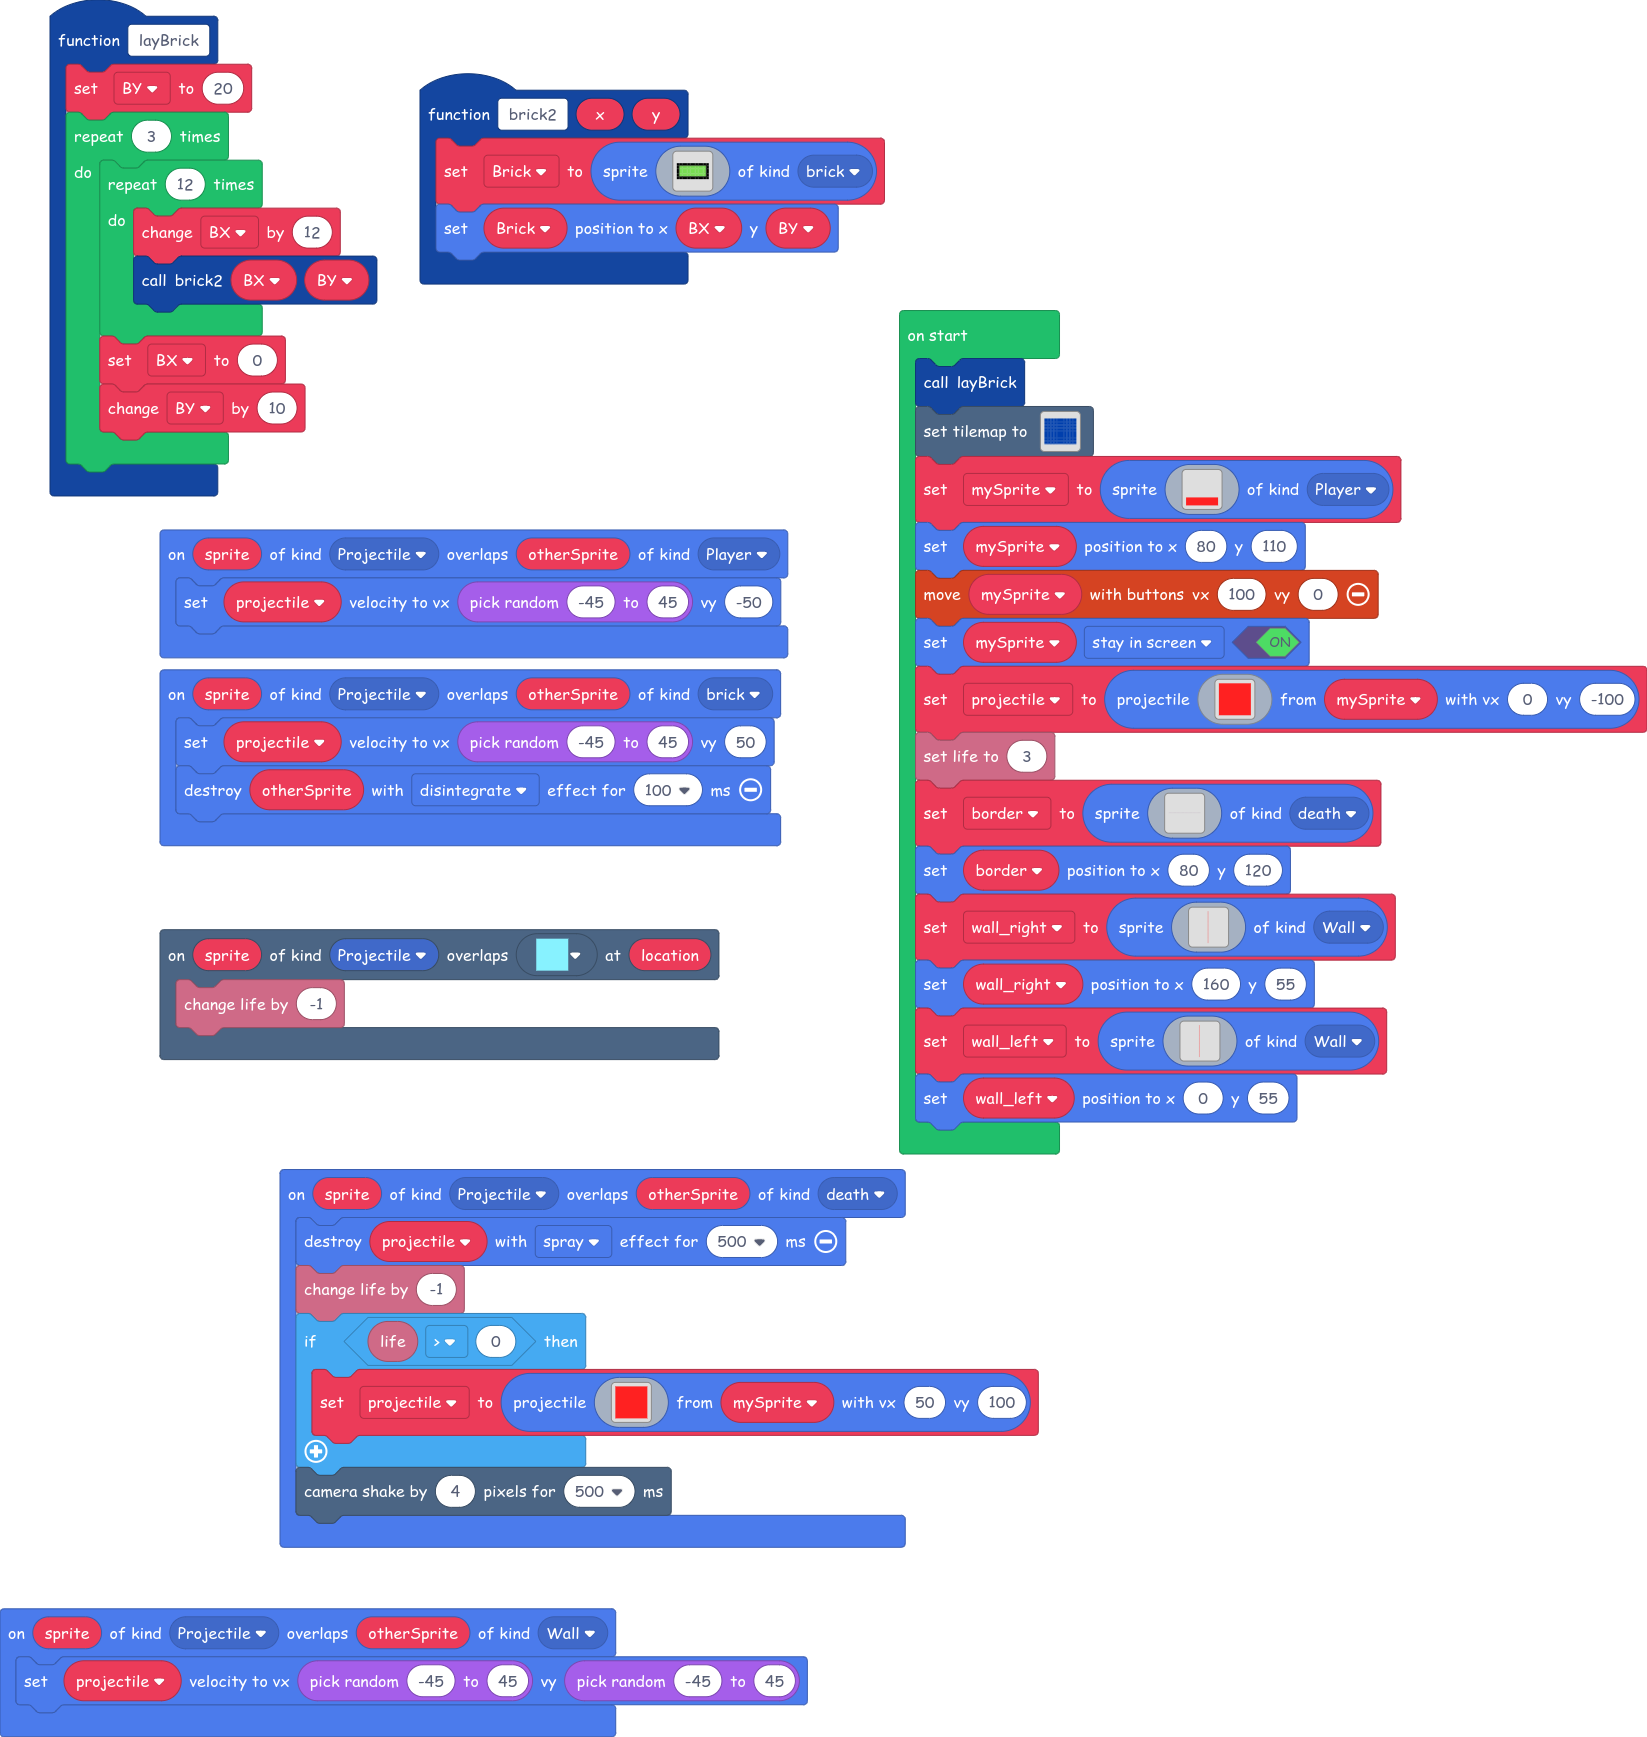
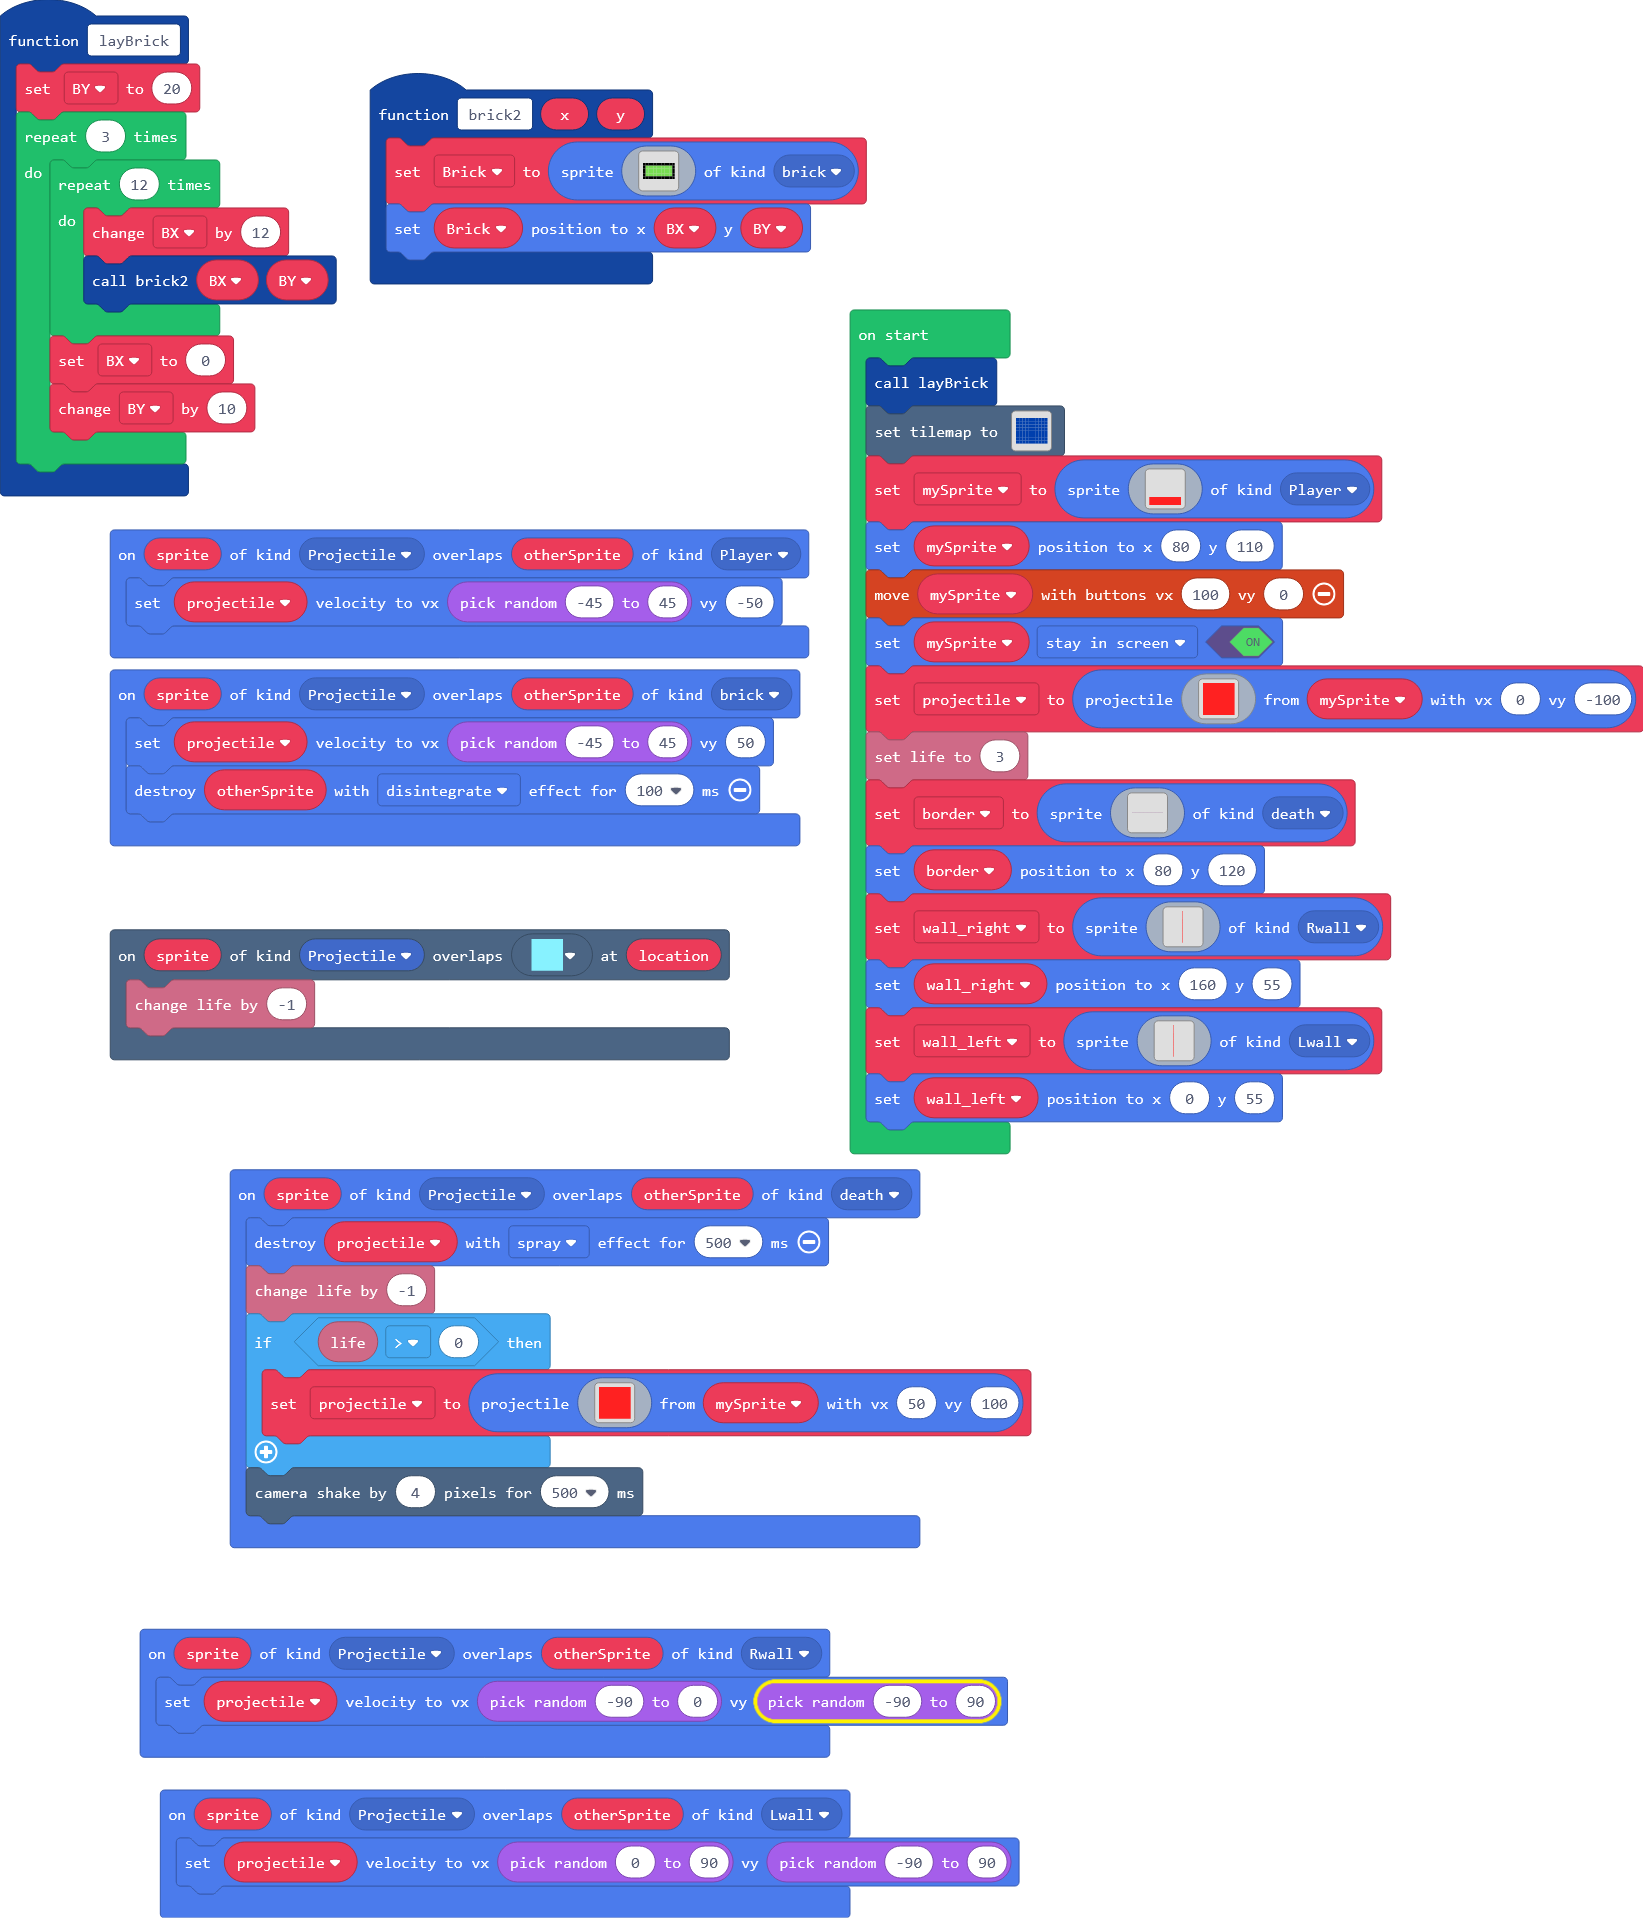
Fixed the walls

diff --git a/main.ts b/main.ts
@@ -2,6 +2,8 @@ namespace SpriteKind {
     export const Wall = SpriteKind.create()
     export const brick = SpriteKind.create()
     export const death = SpriteKind.create()
+    export const Rwall = SpriteKind.create()
+    export const Lwall = SpriteKind.create()
 }
 namespace myTiles {
     //% blockIdentity=images._tile
@@ -81,6 +83,9 @@ f f f f f f f f f f f f f f f f
 9 9 9 9 9 9 9 9 9 9 9 9 9 9 9 9 
 `
 }
+sprites.onOverlap(SpriteKind.Projectile, SpriteKind.Lwall, function (sprite, otherSprite) {
+    projectile.setVelocity(Math.randomRange(0, 90), Math.randomRange(-90, 90))
+})
 function brick2 (x: number, y: number) {
     Brick = sprites.create(img`
 f f f f f f f f f f f f 
@@ -92,6 +97,9 @@ f f f f f f f f f f f f
 `, SpriteKind.brick)
     Brick.setPosition(BX, BY)
 }
+sprites.onOverlap(SpriteKind.Projectile, SpriteKind.Rwall, function (sprite, otherSprite) {
+    projectile.setVelocity(Math.randomRange(-90, 0), Math.randomRange(-90, 90))
+})
 sprites.onOverlap(SpriteKind.Projectile, SpriteKind.brick, function (sprite, otherSprite) {
     projectile.setVelocity(Math.randomRange(-45, 45), 50)
     otherSprite.destroy(effects.disintegrate, 100)
@@ -107,9 +115,6 @@ function layBrick () {
         BY += 10
     }
 }
-sprites.onOverlap(SpriteKind.Projectile, SpriteKind.Wall, function (sprite, otherSprite) {
-    projectile.setVelocity(Math.randomRange(-45, 45), Math.randomRange(-45, 45))
-})
 scene.onOverlapTile(SpriteKind.Projectile, myTiles.tile3, function (sprite, location) {
     info.changeLifeBy(-1)
 })
@@ -364,7 +369,7 @@ let wall_right = sprites.create(img`
 2 2 2 2 
 2 2 2 2 
 2 2 2 2 
-`, SpriteKind.Wall)
+`, SpriteKind.Rwall)
 wall_right.setPosition(160, 55)
 let wall_left = sprites.create(img`
 2 2 2 2 
@@ -547,5 +552,5 @@ let wall_left = sprites.create(img`
 2 2 2 2 
 2 2 2 2 
 2 2 2 2 
-`, SpriteKind.Wall)
+`, SpriteKind.Lwall)
 wall_left.setPosition(0, 55)
